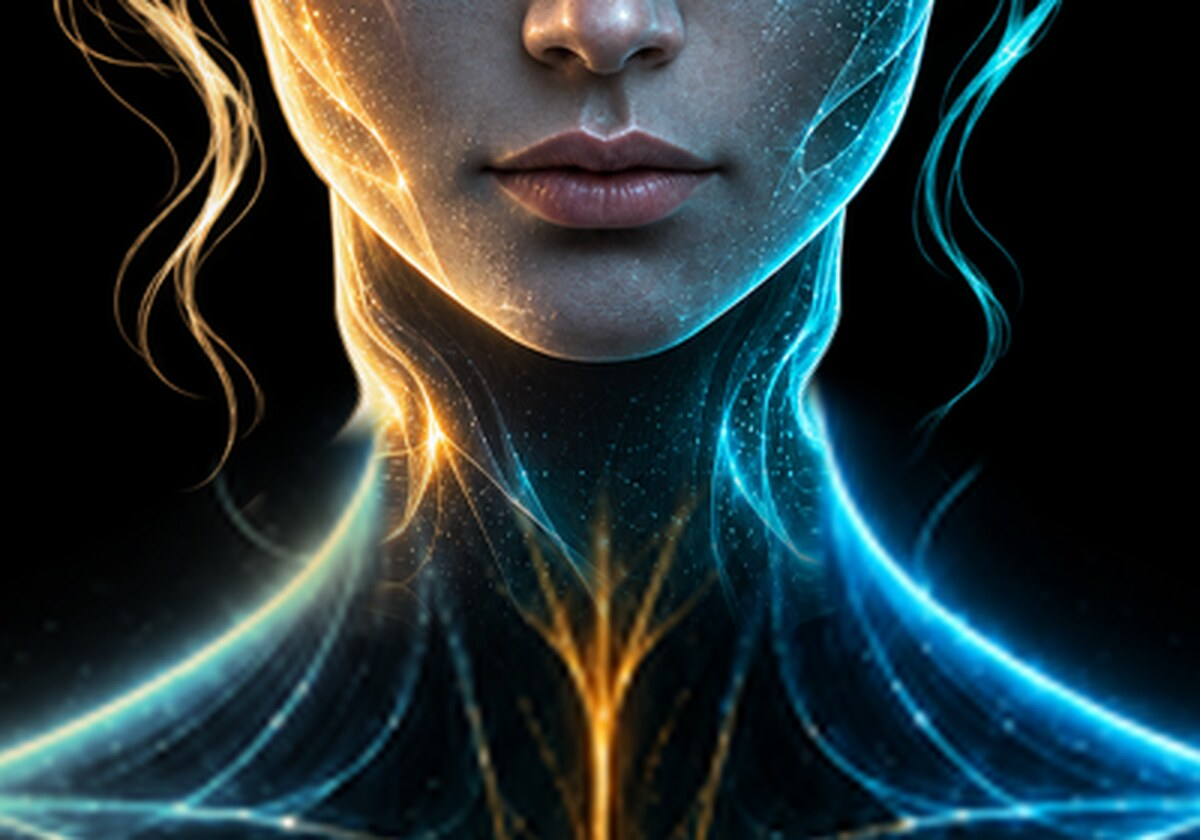
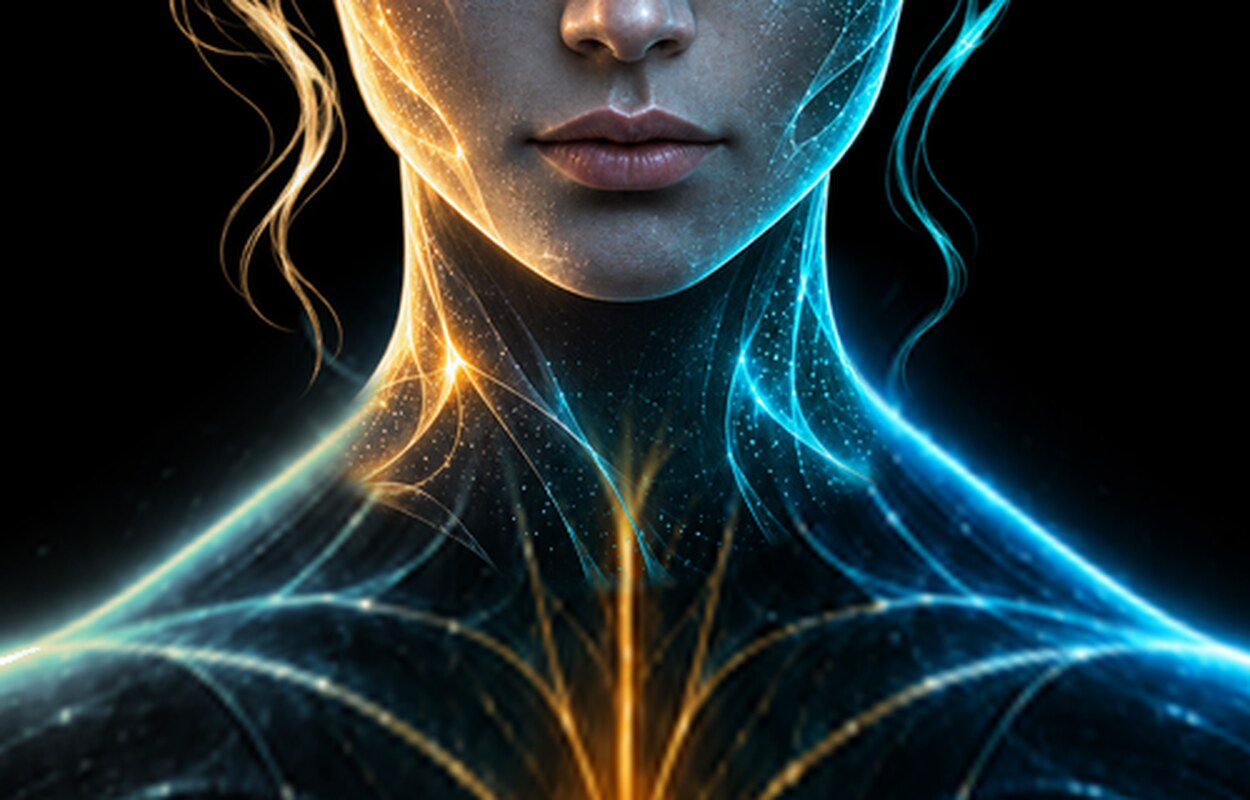
N7 visual trial: H01 keeps its natural neck and joins the shoulders; restore turn travel
Drop the narrowed, cut neck. H01's neck and flare stay unwarped; the body's
shoulder lines are raised beside the neck to meet the flare, and H01 dissolves
softly along the shoulders and over the upper chest. H01 skin weights keep the
raised shoulders fixed. Face plate depth 42 -> 58 restores the travel of the
turn without warping the features.

Claude-Session: https://claude.ai/code/session_01RQ1QWM1ro54vsfywgD43Eu

diff --git a/tools/n7_apex_preview/N7HeadSurface.ts b/tools/n7_apex_preview/N7HeadSurface.ts
@@ -61,18 +61,21 @@ export function createHeadSurface(image:HTMLCanvasElement,scale=1,faceRelief=0) 
       // Rounded rest volume measured on the approved 320x480 artwork:
       // face oval, skull with hair, and the neck column under the chin.
       float face=dome(tile,vec2(160.,138.),vec2(66.,92.),64.);
-      float skull=dome(tile,vec2(160.,105.),vec2(96.,102.),mix(46.,34.,faceRelief));
+      float skull=dome(tile,vec2(160.,105.),vec2(96.,102.),mix(46.,40.,faceRelief));
       float plateRho=min(1.,length((tile-vec2(160.,140.))/vec2(72.,98.)));
-      face=mix(face,42.*(1.-pow(plateRho,2.8)),faceRelief);
+      face=mix(face,58.*(1.-pow(plateRho,3.0)),faceRelief);
       float neck=28.*cos(min(1.,abs(tile.x-160.)/30.)*1.5707963)*smoothstep(170.,200.,tile.y);
       float depth=smax(smax(face,skull),neck)-6.;
       vec4 rest=vec4(tile.x,tile.y,depth,1.);
 
       // Skin weights. The skull, face, jaw and loose hair are fully bound to
       // the head joint. The neck column blends head -> neck -> fixed shoulders.
-      float lateral=smoothstep(30.,46.,abs(tile.x-160.));
-      float wHead=1.-smoothstep(mix(200.,210.,lateral),mix(226.,232.,lateral),tile.y);
-      float wNeck=1.-smoothstep(mix(222.,210.,lateral),mix(256.,232.,lateral),tile.y);
+      float lateral=smoothstep(mix(30.,36.,faceRelief),mix(46.,50.,faceRelief),abs(tile.x-160.));
+      // With H01 the shoulder lines rise higher beside the neck, so the loose
+      // hair there lets go earlier and the raised shoulders stay fixed.
+      float looseFrom=mix(210.,204.,faceRelief),looseTo=mix(232.,217.,faceRelief);
+      float wHead=1.-smoothstep(mix(200.,looseFrom,lateral),mix(226.,looseTo,lateral),tile.y);
+      float wNeck=1.-smoothstep(mix(222.,looseFrom,lateral),mix(256.,looseTo,lateral),tile.y);
       wNeck=max(wNeck,wHead);
       vec3 skinned=rest.xyz*(1.-wNeck)+(neckMatrix*rest).xyz*(wNeck-wHead)+(headMatrix*rest).xyz*wHead;
       vec2 p=skinned.xy;

diff --git a/tools/n7_apex_preview/prepare_h01_figure.py b/tools/n7_apex_preview/prepare_h01_figure.py
@@ -2,8 +2,9 @@
 """Compose the owner-supplied H01 head onto the approved N7 body (second face option).
 
 Inputs are the committed, pinned assets only; no image generation is involved.
-The H01 face is scaled uniformly (no feature warping), its neck is shown only
-inside the body's own neck outline, and both layers get a light colour match.
+The H01 head and neck are scaled uniformly and never warped; the body's
+shoulder lines are raised next to the neck to meet H01's own neck flare, and
+both layers get a light colour match.
 Output: 800x1200 lossless WebP whose 320x480-unit layout equals the approved
 figure, so the existing neck/skull joint rig applies unchanged.
 """
@@ -58,11 +59,21 @@ def main():
     ux, uy = xx / K, yy / K          # layout units
     dx = np.abs(ux - 160)
 
-    # 1. Remove the approved line-art head; keep its neck and shoulders.
-    #    Its loose strands beside the neck go too: H01 brings its own.
-    #    The cut follows the shoulder slope, just above its contour line.
-    #    It stays clear of that contour so the shoulder lines keep rising into the neck.
-    keep_from = 204.0 + np.interp(dx, [28, 40, 50, 62, 100, 160], [0, 3, 11, 18, 36, 56])
+    # 1. H01 keeps its own neck at its natural width. Its neck flares into the
+    #    shoulders about 13 units higher than the body's shoulder line, so the
+    #    body's shoulder lines are raised to meet it next to the neck (nothing
+    #    further out or lower moves) and the two outlines become one.
+    lift = 13.0 * (1 - smooth(44, 112, dx)) * (1 - smooth(250, 300, uy))
+    rows = np.arange(H, dtype=np.float32)
+    lifted = np.empty_like(body)
+    source_y = (uy + lift) * K
+    for column in range(W):
+        for channel in range(3):
+            lifted[:, column, channel] = np.interp(source_y[:, column], rows, body[:, column, channel])
+    body = lifted
+    #    Remove the approved line-art head and its loose strands; keep the
+    #    (raised) shoulders. The cut stays clear of the shoulder contour.
+    keep_from = 204.0 + np.interp(dx, [28, 40, 50, 62, 100, 160], [0, 3, 11, 18, 36, 56]) - 13.0 * (1 - smooth(44, 112, dx))
     body_keep = smooth(-4, 4, uy - keep_from)
     body *= body_keep[..., None]
 
@@ -90,32 +101,24 @@ def main():
     rgb = hue_shift(rgb, 196, 232, -6)
     rgb = hue_shift(rgb, 14, 40, +5)
 
-    # 4. One neck. Below the chin only, the H01 neck is narrowed sideways so
-    #    its own warm and cool rim lines run into the body's neck outline
-    #    (half-width 34 -> 26.5 units). The face and chin are not warped.
-    ramp = smooth(192, 207, uy)
-    knots_out = np.array([0, 12, 26.5, 46, 400], np.float32)
-    knots_src = np.array([0, 12, 34.0, 46, 400], np.float32)
-    src_dx = np.interp(dx, knots_out, knots_src)
-    src_ux = 160 + np.sign(ux - 160) * (dx + (src_dx - dx) * ramp)
-    premult = np.concatenate([rgb * alpha[..., None], alpha[..., None]], axis=2)
-    warped = np.empty_like(premult)
-    columns = np.arange(W, dtype=np.float32)
-    for row in range(H):
-        sample = src_ux[row] * K
-        for channel in range(4):
-            warped[row, :, channel] = np.interp(sample, columns, premult[row, :, channel])
-    alpha = warped[..., 3]
-    #    Then the H01 skin fades into the body's own neck and never reaches
-    #    the shoulders; its cut-off bust edge is not shown.
-    neck_half = 26.5 + 9.0 * smooth(226, 246, uy)
-    inside_neck = 1 - smooth(neck_half + 1.0, neck_half + 5.0, dx)
-    fade = (1 - smooth(210, 240, uy)) * (1 - smooth(212, 222, uy) * (1 - inside_neck))
-    #    Nothing of H01's flaring bust may stick out beside the neck base; only its
-    #    loose hair, further out, is kept there.
-    flare = smooth(205, 212, uy) * smooth(neck_half + 1.0, neck_half + 5.0, dx) * (1 - smooth(44, 48, dx))
-    fade *= 1 - flare
-    out = body * (1 - alpha * fade)[..., None] + warped[..., :3] * fade[..., None]
+    # 4. One neck: no narrowing and no cut. H01's neck and its flare stay as
+    #    drawn and dissolve softly into the body: sideways along the shoulder
+    #    line, where its warm and cool rims hand over to the body's own line,
+    #    and downward over the upper chest. Loose hair beside the neck is kept.
+    radius = int(7 * K)
+    kernel = np.exp(-.5 * (np.arange(-3 * radius, 3 * radius + 1) / radius) ** 2); kernel /= kernel.sum()
+    column_soft = np.empty_like(alpha)
+    for column in range(W):
+        column_soft[:, column] = np.convolve(np.pad(alpha[:, column], 3 * radius, mode="edge"), kernel, mode="valid")
+    low = smooth(210, 218, uy)
+    sideways = 1 - low * smooth(40, 56, dx)
+    downward = 1 - low * (1 - smooth(.50, .96, column_soft))
+    #    The matte skin thins out gradually toward the chest; its bright
+    #    filaments carry further, so they read as the body's own lines.
+    bright = smooth(.40, .85, rgb.max(axis=2))
+    downward *= 1 - smooth(212, 244, uy) * (1 - .75 * bright)
+    fade = sideways * downward
+    out = body * (1 - alpha * fade)[..., None] + rgb * (alpha * fade)[..., None]
 
     image = Image.fromarray((np.clip(out, 0, 1) * 255 + 0.5).astype(np.uint8), "RGB")
     target = pathlib.Path(args.out)

diff --git a/tools/n7_apex_preview/build_apex_preview.py b/tools/n7_apex_preview/build_apex_preview.py
@@ -197,7 +197,7 @@ def main():
     if isolated:
         # Visual trial: the designed N7 environment and the H01 second face option.
[3 lines of base64/hex data omitted]
             data=(overlay/"assets"/name).read_bytes()
             if hashlib.sha256(data).hexdigest()!=digest: raise RuntimeError("wrong visual asset "+name)
             (out/"public"/name).write_bytes(data)

diff --git a/docs/validation/n7-visual-h01.md b/docs/validation/n7-visual-h01.md
@@ -10,9 +10,9 @@ The approved eyeless N7 face stays the default. The dock has a face selector (N7
 
 H01 is not a new renderer. `prepare_h01_figure.py` composes the committed, owner-supplied `n7-head-h01.webp` onto the approved body and the existing scene loads that raster instead (`n7-humanoid-h01-v1.webp`, 800×1200, so the detailed face is rendered at 2.5× the line-art resolution). The same neck/skull joints, limits, state postures, moods and voice reaction apply.
 
-- Turning: a realistic face shows any warping, so with H01 the rig uses a flatter face plate (`faceRelief`): eyes, nose and mouth turn as one piece and the curvature moves to the sides under the hair. The approved N7 face keeps its original volume exactly.
+- Turning: a realistic face shows any warping, so with H01 the rig uses a flatter face plate (`faceRelief`): eyes, nose and mouth turn as one piece and the curvature moves to the sides under the hair. The first plate was shallow (depth 42) and the owner found the motion reduced; it is now 58 deep with the same flat profile, which restores the travel of the turn without warping the features. The approved N7 face keeps its original volume exactly.
 - Proportion: uniform scale so hair top and chin land on the approved head's own points (y 20 and 200 of 480). Face width comes out at 95 units against 90 for the approved face. The face and chin are not warped.
-- One neck: below the chin only, the H01 neck is narrowed sideways (half-width 34 → 26.5 units, complete by the neck base) so its warm and cool rim lines run into the body's neck outline, then the skin fades into the body's neck. Its cut-off bust edge is not shown: an owner-reported remnant of it sticking out at the left of the neck base was removed, and the body's shoulder lines now rise uninterrupted into the neck, with a warm hand-over where H01's left rim meets the body line (`local-h01-neck-detail.jpg`). The approved line-art head and its loose strands are removed; neck and shoulders are kept.
+- One neck: the owner twice reported that the neck looked attached rather than continuous. The first approach (narrowing the H01 neck into the body's thin line-art neck and cutting its flare) left small outward hooks at the neck base and an abrupt change of width, and was dropped. Now H01 keeps its own neck at its natural width, unwarped. Its neck flares into the shoulders about 13 units higher than the body's shoulder line, so the body's shoulder lines are raised next to the neck to meet that flare (nothing further out or lower on the body moves). H01 then dissolves softly sideways along the shoulder line and downward over the upper chest, its matte skin first and its bright filaments last. The approved line-art head and its loose strands are removed. With H01 the skin weights let the loose hair beside the neck go earlier, so the raised shoulders stay fixed while the head turns (`local-h01-neck-detail.jpg`, `local-h01-neck-front-right-left.jpg`, `local-h01-neck-down-up.jpg`).
 - Light and colour: H01's blue is turned 6° toward N7 cyan and its orange 5° toward N7 gold; the left shoulder lines take a restrained warm key to match H01's warm-left, cool-right lighting.
 
 No image generation was used. Limits: the same as the approved face — only a front view exists, so the turn stays bounded (±0.34 rad) and there is no profile. The figure is screen-blended, so the realistic H01 skin is slightly translucent over bright scenery; the new environment dissolves into dark mist behind the figure for that reason.
